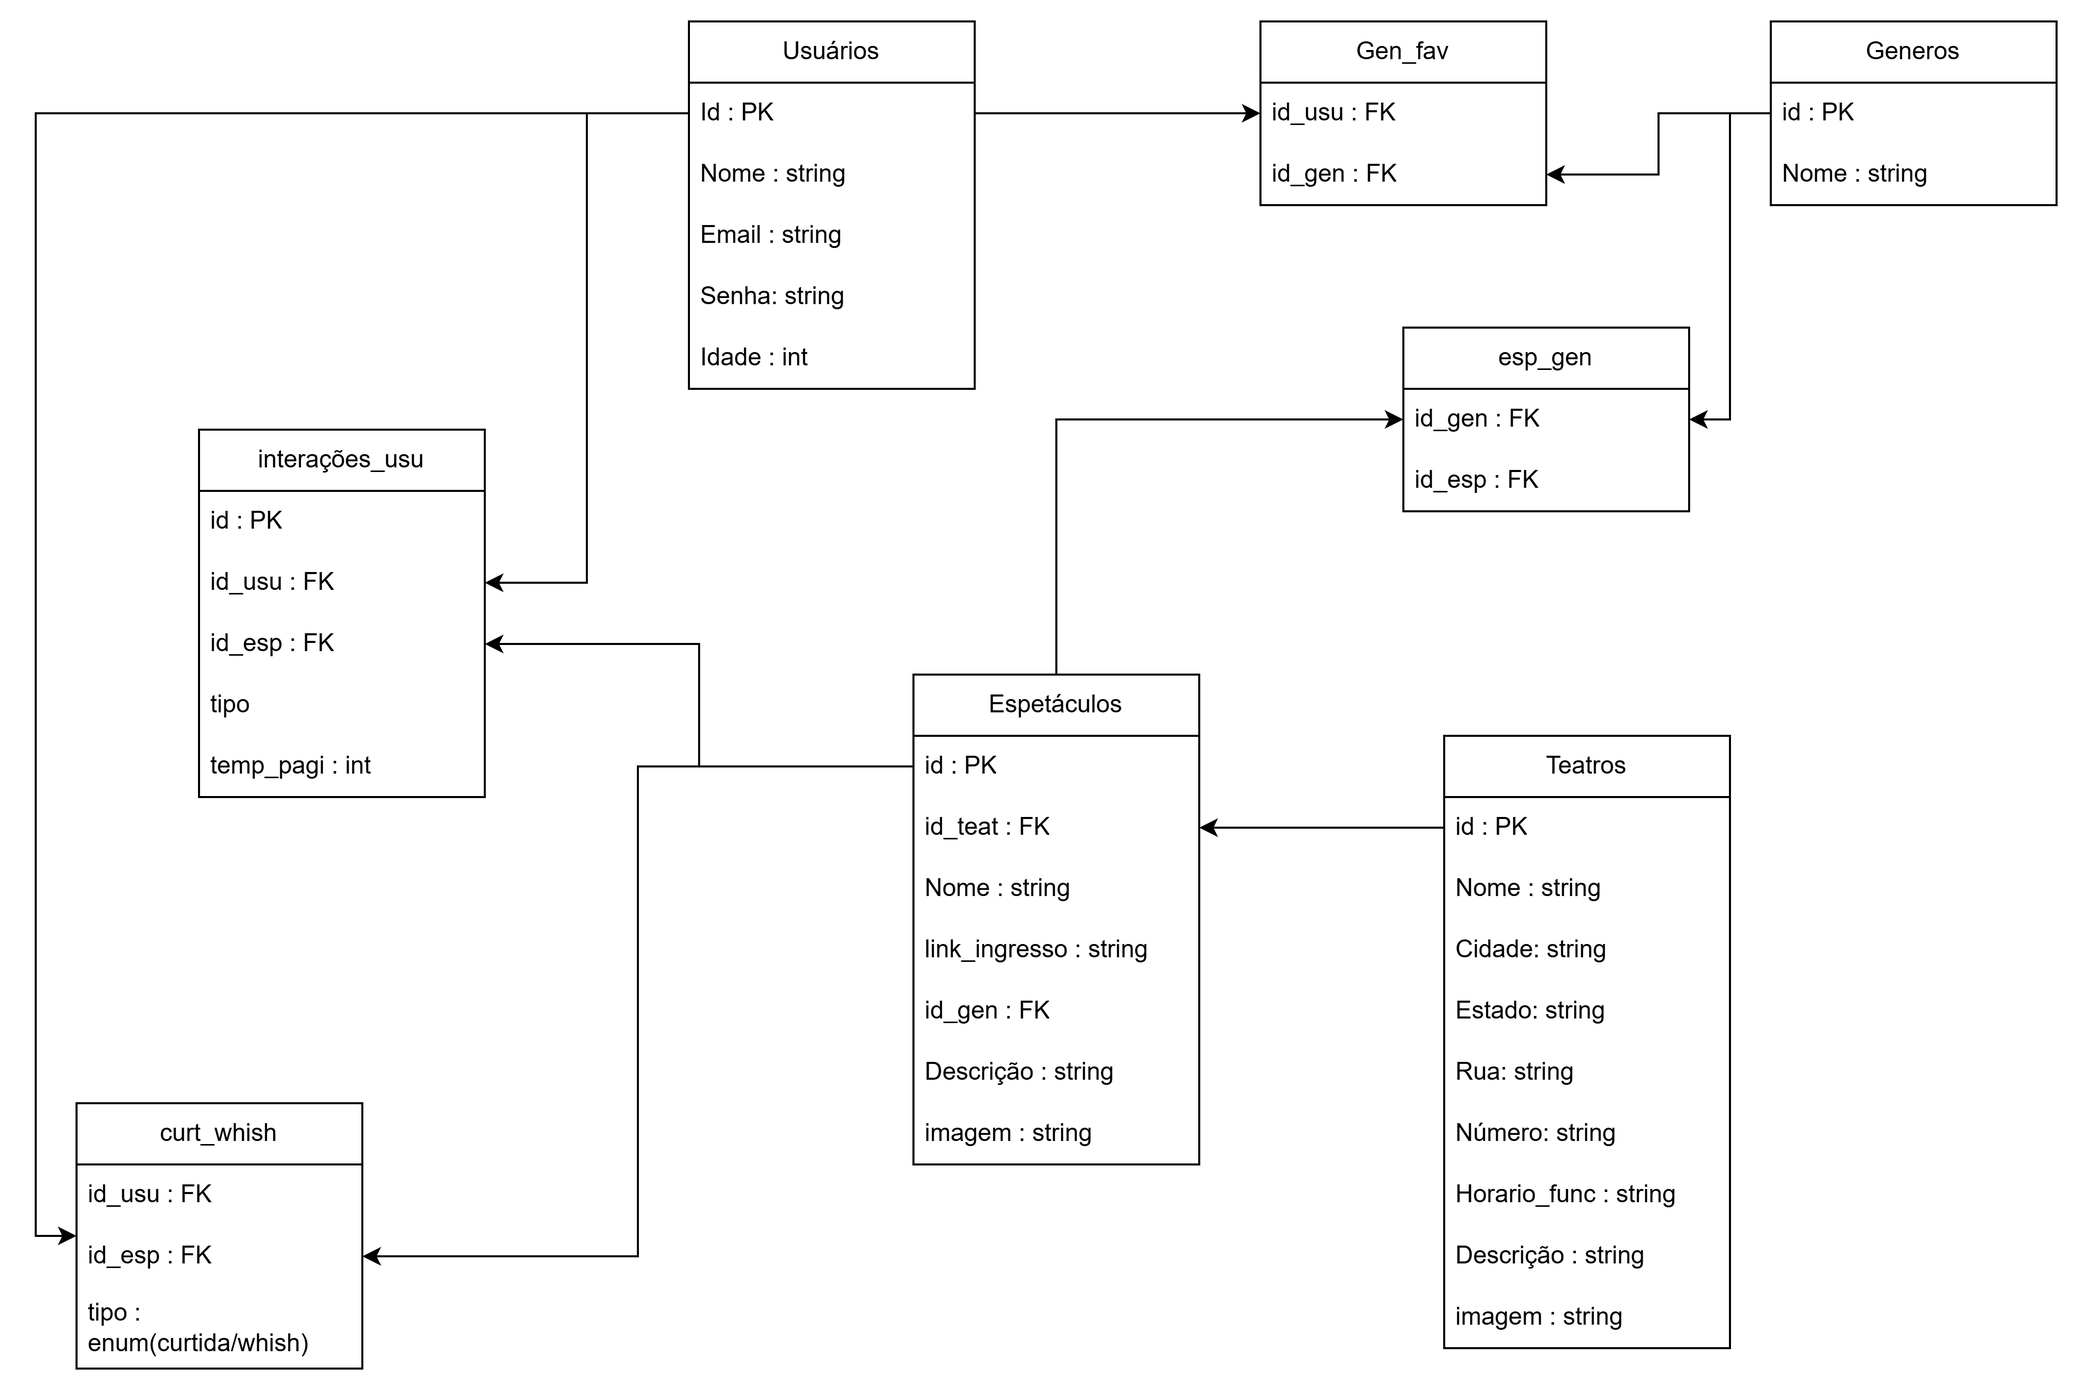
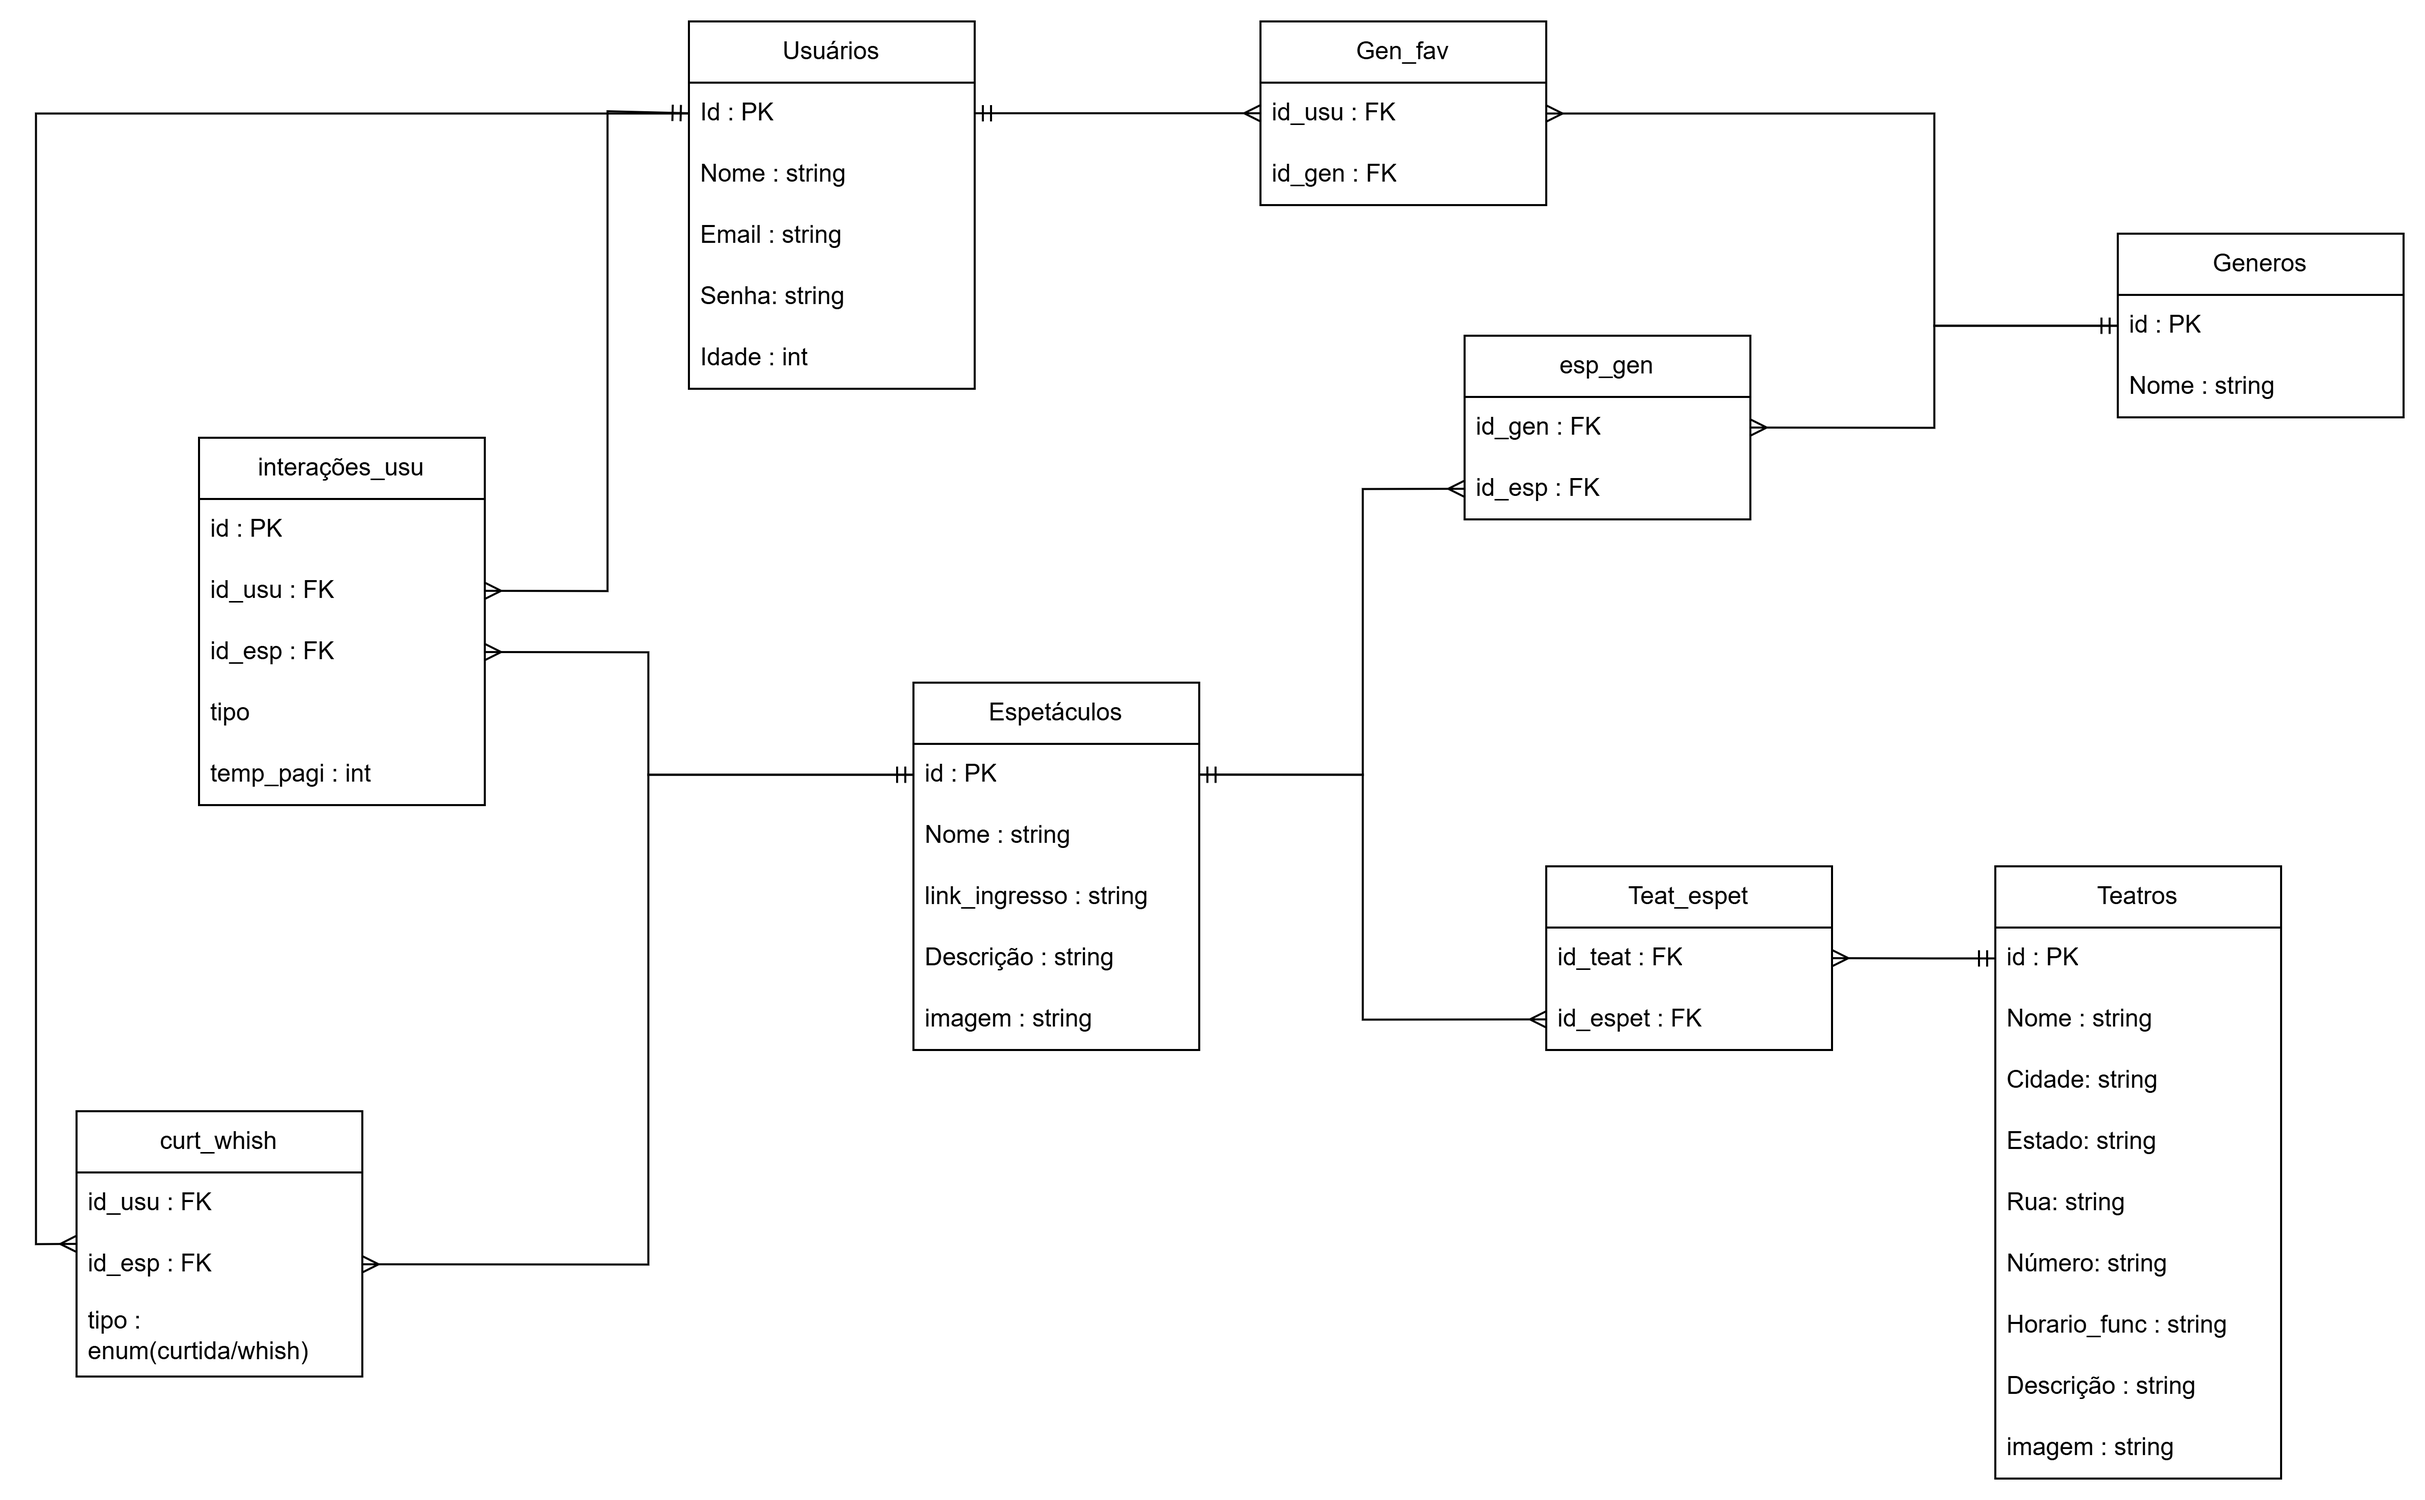
chore: add-logical-diagram-cardinality-and-doc-adjusting #115

diff --git a/docs/Projeto.md b/docs/Projeto.md
@@ -649,13 +649,11 @@ Para a especificação, adotamos o padrão estruturado de User Stories ("Como pe
 
 <div align="center">
 <sub>Imagem 09 - Diagrama lógico</sub><br>
-  <img src="../assets/diagrama-logico.png" width="100%" alt="Diagrama logico do banco"><br>
-  <sup>Source: Material produced by the authors, 2026.</sup>
+  <img src="../assets/diagrama-logico.png" width="100%" alt="Diagrama logico do banco"><br>
+  <sup>Source: Material produced by the authors, 2026.</sup>
 </div>
 
-
-
-O modelo lógico de dados representa a estruturação dos dados seguindo as regras do modelo relacional, servindo como uma ponte entre a abstração do modelo conceitual e a implementação física no SGDB .
+O modelo lógico de dados representa a estruturação dos dados seguindo as regras do modelo relacional, servindo como uma ponte entre a abstração do modelo conceitual e a implementação física no SGDB.
 
 ---
 
@@ -669,43 +667,42 @@ A conversão do modelo conceitual para o modelo lógico foi realizada mapeando c
 
 | Tabela | Coluna | Tipo | Restrição | Descrição |
 | :--- | :--- | :--- | :--- | :--- |
-| **USUARIOS** | `id_usuario` | INT | PK, AI | Identificador único do usuário. |
-| | `nome` | VARCHAR(100) | NN | Nome completo do usuário. |
-| | `email` | VARCHAR(100) | UNIQUE, NN | E-mail utilizado para autenticação. |
-| | `senha` | VARCHAR(255) | NN | Hash da senha de acesso. |
-| | `idade` | INT | - | Idade do usuário. |
+| **USUARIOS** | `Id` | INT | PK, AI | Identificador único do usuário. |
+| | `Nome` | VARCHAR(100) | NN | Nome completo do usuário. |
+| | `Email` | VARCHAR(100) | UNIQUE, NN | E-mail utilizado para autenticação. |
+| | `Senha` | VARCHAR(255) | NN | Hash da senha de acesso. |
+| | `Idade` | INT | - | Idade do usuário. |
 
 ---
 
 | Tabela | Coluna | Tipo | Restrição | Descrição |
 | :--- | :--- | :--- | :--- | :--- |
-| **GENEROS** | `id_genero` | INT | PK, AI | Identificador único do gênero. |
-| | `nome` | VARCHAR(50) | NN | Nome do gênero artístico. |
+| **GENEROS** | `id` | INT | PK, AI | Identificador único do gênero. |
+| | `Nome` | VARCHAR(50) | NN | Nome do gênero artístico. |
 
 ---
 
 | Tabela | Coluna | Tipo | Restrição | Descrição |
 | :--- | :--- | :--- | :--- | :--- |
-| **TEATROS** | `id_teatro` | INT | PK, AI | Identificador único do teatro. |
-| | `nome` | VARCHAR(100) | NN | Nome do teatro ou espaço cultural. |
-| | `cidade` | VARCHAR(100) | NN | Cidade onde o teatro está localizado. |
-| | `estado` | VARCHAR(50) | NN | Estado onde o teatro está localizado. |
-| | `rua` | VARCHAR(150) | NN | Nome da rua do teatro. |
-| | `numero` | VARCHAR(20) | NN | Número do endereço do teatro. |
-| | `horario_func` | VARCHAR(100) | - | Horário de funcionamento do teatro. |
-| | `descricao` | TEXT | - | Descrição geral do teatro. |
-| | `imagem` | VARCHAR(255) | - | URL ou caminho da imagem do teatro. |
+| **TEATROS** | `id` | INT | PK, AI | Identificador único do teatro. |
+| | `Nome` | VARCHAR(100) | NN | Nome do teatro ou espaço cultural. |
+| | `Cidade` | VARCHAR(100) | NN | Cidade onde o teatro está localizado. |
+| | `Estado` | VARCHAR(50) | NN | Estado onde o teatro está localizado. |
+| | `Rua` | VARCHAR(150) | NN | Nome da rua do teatro. |
+| | `Numero` | VARCHAR(20) | NN | Número do endereço do teatro. |
+| | `Horario_func` | VARCHAR(100) | - | Horário de funcionamento do teatro. |
+| | `Descricao` | TEXT | - | Descrição geral do teatro. |
+| | `Imagem` | VARCHAR(255) | - | URL ou caminho da imagem do teatro. |
 
 ---
 
 | Tabela | Coluna | Tipo | Restrição | Descrição |
 | :--- | :--- | :--- | :--- | :--- |
-| **ESPETACULOS** | `id_espetaculo` | INT | PK, AI | Identificador único do espetáculo. |
-| | `id_teatro` | INT | FK, NN | Teatro onde o espetáculo é apresentado. |
-| | `nome` | VARCHAR(150) | NN | Nome do espetáculo. |
+| **ESPETACULOS** | `id` | INT | PK, AI | Identificador único do espetáculo. |
+| | `Nome` | VARCHAR(150) | NN | Nome do espetáculo. |
 | | `link_ingresso` | VARCHAR(255) | - | Link para compra de ingressos. |
-| | `descricao` | TEXT | - | Descrição detalhada do espetáculo. |
-| | `imagem` | VARCHAR(255) | - | URL ou caminho da imagem do espetáculo. |
+| | `Descricao` | TEXT | - | Descrição detalhada do espetáculo. |
+| | `Imagem` | VARCHAR(255) | - | URL ou caminho da imagem do espetáculo. |
 
 ---
 
@@ -713,54 +710,56 @@ A conversão do modelo conceitual para o modelo lógico foi realizada mapeando c
 
 | Tabela | Coluna | Tipo | Restrição | Descrição |
 | :--- | :--- | :--- | :--- | :--- |
-| **ESP_GEN** | `id_espetaculo` | INT | FK, PK(1/2) | Espetáculo relacionado ao gênero. |
-| | `id_genero` | INT | FK, PK(2/2) | Gênero associado ao espetáculo. |
+| **ESP_GEN** | `id_esp` | INT | FK, PK(1/2) | Espetáculo relacionado ao gênero. |
+| | `id_gen` | INT | FK, PK(2/2) | Gênero associado ao espetáculo. |
 
 ---
 
 | Tabela | Coluna | Tipo | Restrição | Descrição |
 | :--- | :--- | :--- | :--- | :--- |
-| **GEN_FAV** | `id_usuario` | INT | FK, PK(1/2) | Usuário que favoritou o gênero. |
-| | `id_genero` | INT | FK, PK(2/2) | Gênero marcado como preferência pelo usuário. |
+| **GEN_FAV** | `id_usu` | INT | FK, PK(1/2) | Usuário que favoritou o gênero. |
+| | `id_gen` | INT | FK, PK(2/2) | Gênero marcado como preferência pelo usuário. |
 
 ---
 
 | Tabela | Coluna | Tipo | Restrição | Descrição |
 | :--- | :--- | :--- | :--- | :--- |
-| **CURT_WISH** | `id_usuario` | INT | FK, PK(1/2) | Usuário que realizou a interação. |
-| | `id_espetaculo` | INT | FK, PK(2/2) | Espetáculo alvo da interação. |
+| **TEAT_ESPET** | `id_teat` | INT | FK, PK(1/2) | Teatro onde o espetáculo ocorre. |
+| | `id_espet` | INT | FK, PK(2/2) | Espetáculo vinculado ao teatro. |
+
+---
+
+| Tabela | Coluna | Tipo | Restrição | Descrição |
+| :--- | :--- | :--- | :--- | :--- |
+| **CURT_WISH** | `id_usu` | INT | FK, PK(1/2) | Usuário que realizou a interação. |
+| | `id_esp` | INT | FK, PK(2/2) | Espetáculo alvo da interação. |
 | | `tipo` | ENUM('curtida', 'wishlist') | NN | Tipo de interação realizada pelo usuário. |
 
 ---
 
 | Tabela | Coluna | Tipo | Restrição | Descrição |
 | :--- | :--- | :--- | :--- | :--- |
-| **INTERAÇÕES_USU** | `id_evento` | INT | PK, AI | Identificador único do evento registrado. |
-| | `id_usuario` | INT | FK, NN | Usuário que realizou a interação. |
-| | `id_espetaculo` | INT | FK, NN | Espetáculo relacionado à interação. |
+| **INTERAÇÕES_USU** | `id` | INT | PK, AI | Identificador único do evento registrado. |
+| | `id_usu` | INT | FK, NN | Usuário que realizou a interação. |
+| | `id_esp` | INT | FK, NN | Espetáculo relacionado à interação. |
 | | `tipo` | VARCHAR(50) | NN | Tipo de evento/interação realizada. |
-| | `tempo_pagina` | INT | - | Tempo de permanência do usuário na página do espetáculo em segundos. |
+| | `temp_pagi` | INT | - | Tempo de permanência na página (segundos). |
 
 ---
 
 ### 12.2.2 Definição de Chaves e Integridade Referencial
 
 ### Chaves Primárias (PK)
-
-As chaves primárias foram definidas para garantir a unicidade de cada registro dentro das tabelas.
+As chaves primárias foram definidas para garantir a unicidade de cada registro. Nas tabelas associativas (`ESP_GEN`, `GEN_FAV`, `TEAT_ESPET`, `CURT_WISH`), utilizam-se chaves compostas pelos IDs das entidades relacionadas para evitar duplicidade de associações.
 
 ### Chaves Estrangeiras (FK)
-
-As chaves estrangeiras garantem a integridade referencial entre as entidades relacionadas, impedindo registros órfãos e assegurando consistência entre os dados.
+As chaves estrangeiras garantem a integridade referencial, assegurando que as associações entre usuários, espetáculos, teatros e gêneros apontem apenas para registros existentes.
 
 ### Relacionamentos implementados
-
-- Um usuário pode possuir vários registros de eventos.
-- Um usuário pode favoritar múltiplos gêneros.
-- Um usuário pode interagir com vários espetáculos.
-- Um espetáculo pertence a um teatro.
-- Um espetáculo pode possuir múltiplos gêneros.
-- Um gênero pode estar associado a múltiplos espetáculos.
+- **Usuários e Interações**: Um usuário pode gerar múltiplos registros de interação e eventos de navegação (`1:N`).
+- **Gêneros Favoritos**: Relação `N:N` que permite ao usuário filtrar sua experiência com base em múltiplos interesses.
+- **Espetáculos e Teatros**: Relação `N:N` via `TEAT_ESPET`, permitindo que uma produção ocorra em diferentes locais e que um teatro receba diversos eventos.
+- **Categorização Multifacetada**: Através da `ESP_GEN`, um espetáculo pode ser associado a diversos gêneros simultaneamente.
 
 ---
 
@@ -769,31 +768,15 @@ As chaves estrangeiras garantem a integridade referencial entre as entidades rel
 O modelo lógico segue os princípios da Terceira Forma Normal (3FN).
 
 ### Primeira Forma Normal (1FN)
-
-Todos os atributos armazenam valores atômicos, sem grupos repetitivos ou listas em uma mesma coluna.
+Todos os atributos possuem valores atômicos. Colunas como `tipo` em `CURT_WISH` utilizam ENUM para padronização, evitando dados multivalorados.
 
 ### Segunda Forma Normal (2FN)
-
-As tabelas associativas utilizam chaves compostas, garantindo que todos os atributos dependam integralmente da chave primária completa.
+Não existem dependências parciais. Em tabelas com chaves compostas, os atributos dependem da junção completa das chaves estrangeiras.
 
 ### Terceira Forma Normal (3FN)
-
-Os atributos não-chave dependem exclusivamente da chave primária, eliminando dependências transitivas e reduzindo redundâncias no banco de dados.
+Não há dependências transitivas. Atributos descritivos (como os detalhes de endereço em `TEATROS`) dependem exclusivamente da PK daquela tabela.
 
 ---
-
-### 12.2.4 Justificativa e Rastreabilidade
-
-O modelo lógico foi estruturado para manter fidelidade ao modelo conceitual, garantindo consistência entre as regras de negócio e a implementação relacional.
-
-As tabelas associativas permitem representar corretamente relacionamentos Muitos-para-Muitos, como:
-
-- preferências de gêneros dos usuários;
-- categorização de espetáculos;
-- interações entre usuários e espetáculos.
-
-A separação das entidades reduz redundâncias, melhora a escalabilidade do sistema e facilita futuras manutenções e expansões do banco de dados.
-
 
 ## 13. Termos e Abreviações
 
